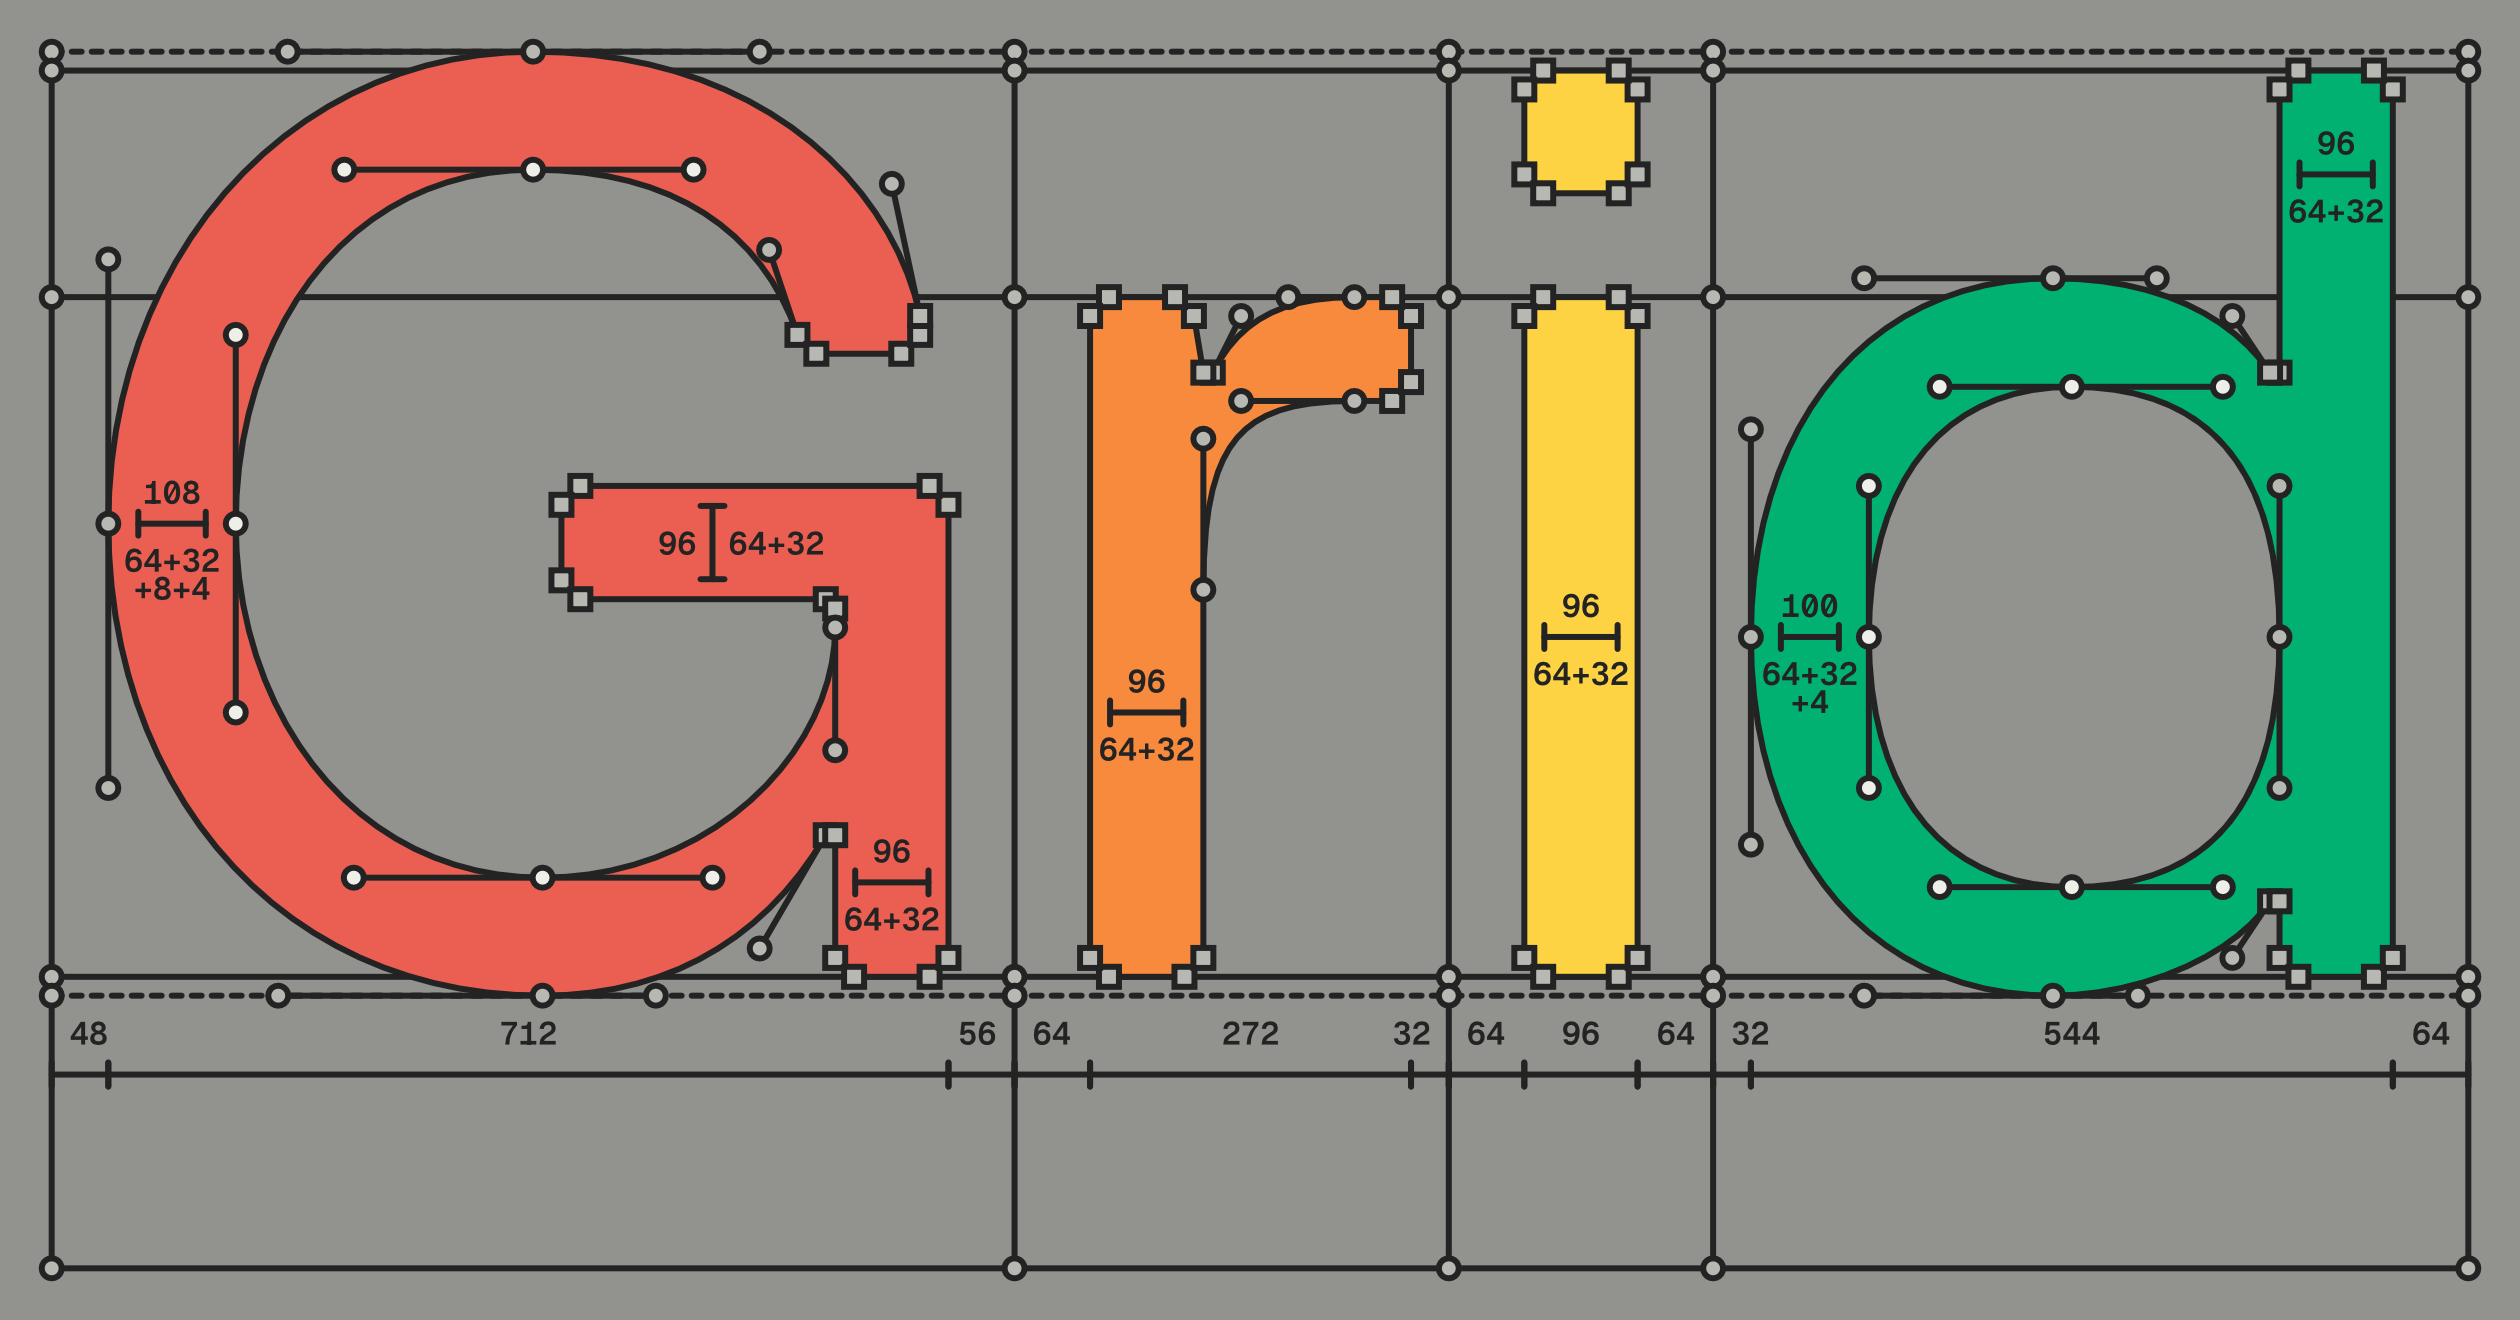
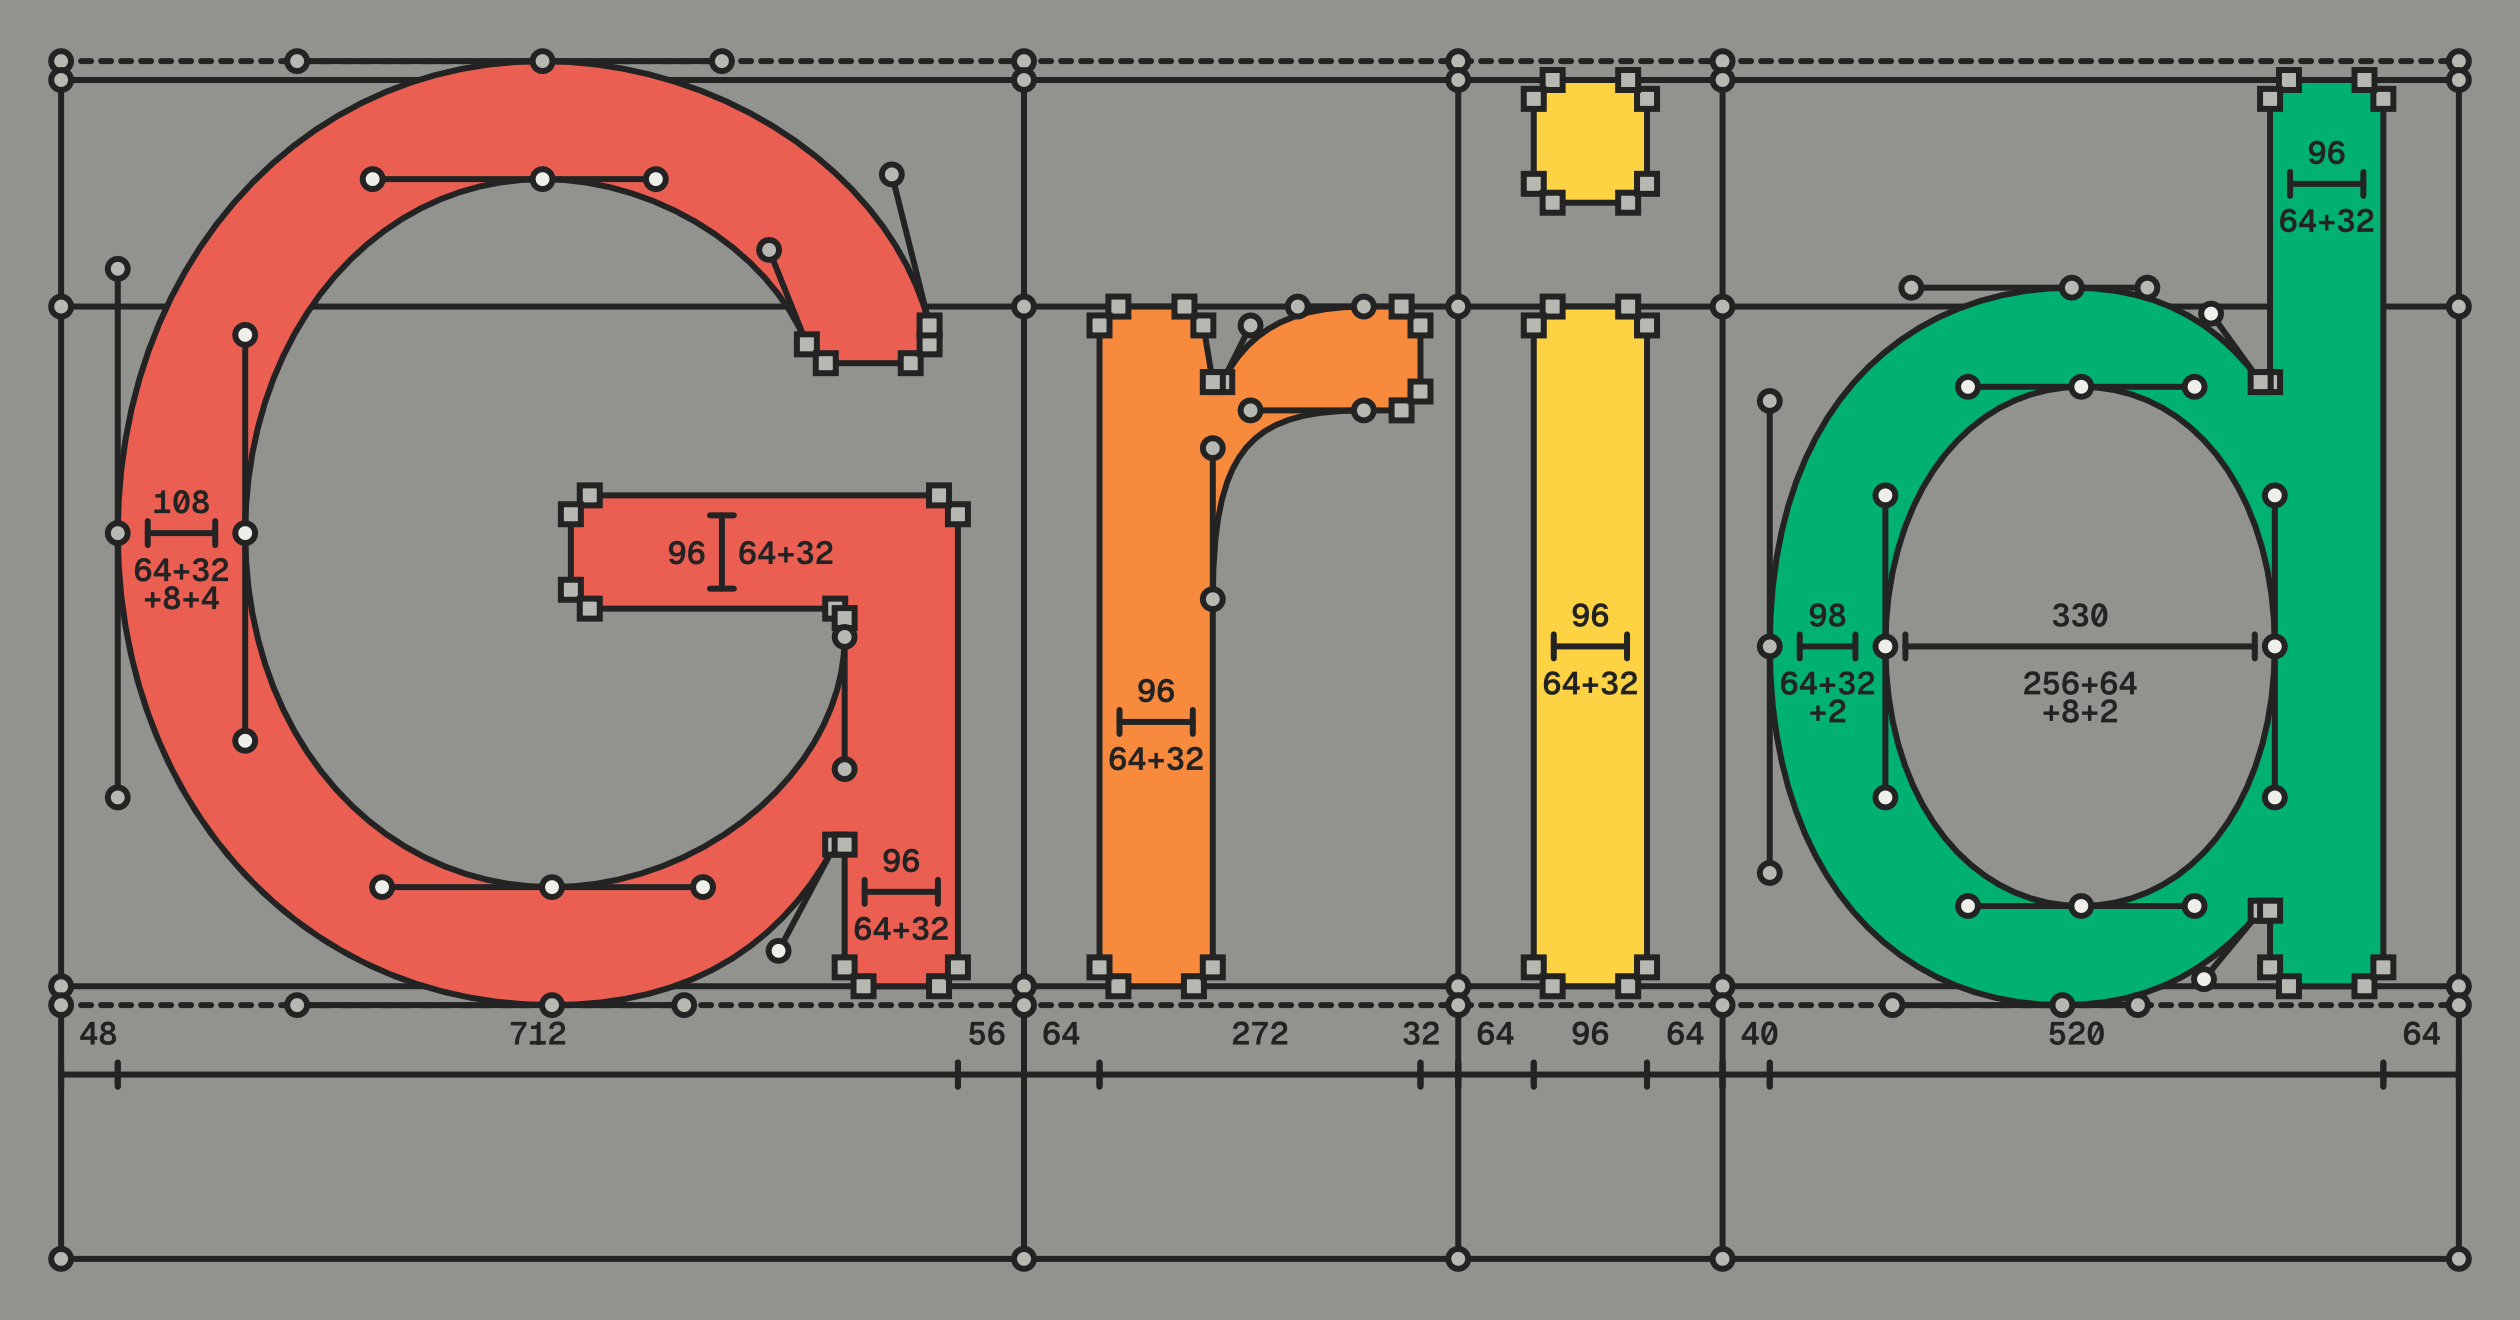
OG card: resolve glyph measurements from outlines at render time, add d counter dim

Changed region(s): [[0.0, 0.0311, 0.9905, 0.9629]]

diff --git a/scripts/virtua-grotesk/src/bin/og.rs b/scripts/virtua-grotesk/src/bin/og.rs
@@ -21,19 +21,50 @@ const GLYPHS: &[&str] = &["G", "r", "i", "d"];
 const TITLE: &str = "Virtua Grotesk: Grid Systems as Datasets";
 
 #[derive(Clone, Copy)]
+enum Axis {
+    H,
+    V,
+}
+
+/// A measurement declared against the outline, not against coordinates.
+/// `at` is the fixed line (a y for H, an x for V, in font units) and `span`
+/// picks two indices from the sorted crossing list of that line with the
+/// glyph outline. Endpoints and the printed value are resolved at render
+/// time, so redrawn glyphs re-measure themselves.
+#[derive(Clone, Copy)]
 struct GlyphMeasurement {
     glyph: usize,
-    x0: f64,
-    y0: f64,
-    x1: f64,
-    y1: f64,
-    value: i64,
+    axis: Axis,
+    at: f64,
+    span: (usize, usize),
     offset: f64,
     end_inset: f64,
     label_dx: f64,
     label_dy: f64,
     sum_dx: f64,
     sum_dy: f64,
+}
+
+/// The resolved geometry glyph_measurement() draws.
+struct ResolvedMeasurement {
+    x0: f64,
+    y0: f64,
+    x1: f64,
+    y1: f64,
+    value: i64,
+}
+
+fn resolve_measurement(outline: &Outline, m: &GlyphMeasurement) -> Option<ResolvedMeasurement> {
+    let crossings = match m.axis {
+        Axis::H => h_crossings(&outline.path, m.at),
+        Axis::V => v_crossings(&outline.path, m.at),
+    };
+    let (a, b) = (crossings.get(m.span.0)?, crossings.get(m.span.1)?);
+    let value = (b - a).round() as i64;
+    Some(match m.axis {
+        Axis::H => ResolvedMeasurement { x0: *a, y0: m.at, x1: *b, y1: m.at, value },
+        Axis::V => ResolvedMeasurement { x0: m.at, y0: *a, x1: m.at, y1: *b, value },
+    })
 }
 
 const POINT_MEASUREMENT_END_INSET: f64 = 30.0;
@@ -45,14 +76,13 @@ const VERTICAL_LABEL_BASELINE_OFFSET: f64 = -12.0;
 
 // EDIT HERE: individually placed glyph measurements in source-font units.
 // Each entry can move independently without changing any glyph geometry.
-const GLYPH_MEASUREMENTS: [GlyphMeasurement; 7] = [
+const GLYPH_MEASUREMENTS: [GlyphMeasurement; 8] = [
+    // G left stroke at the bowl's widest.
     GlyphMeasurement {
         glyph: 0,
-        x0: 48.0,
-        y0: 384.0,
-        x1: 156.0,
-        y1: 384.0,
-        value: 108,
+        axis: Axis::H,
+        at: 384.0,
+        span: (0, 1),
         offset: 0.0,
         end_inset: POINT_MEASUREMENT_END_INSET,
         label_dx: 0.0,
@@ -60,13 +90,12 @@ const GLYPH_MEASUREMENTS: [GlyphMeasurement; 7] = [
         sum_dx: 0.0,
         sum_dy: 0.0,
     },
+    // G bar thickness, measured vertically inside the bar.
     GlyphMeasurement {
         glyph: 0,
-        x0: 560.0,
-        y0: 320.0,
-        x1: 560.0,
-        y1: 416.0,
-        value: 96,
+        axis: Axis::V,
+        at: 560.0,
+        span: (2, 3),
         offset: 0.0,
         end_inset: EDGE_MEASUREMENT_END_INSET,
         label_dx: 0.0,
@@ -74,13 +103,12 @@ const GLYPH_MEASUREMENTS: [GlyphMeasurement; 7] = [
         sum_dx: 0.0,
         sum_dy: 0.0,
     },
+    // G lower-right stem.
     GlyphMeasurement {
         glyph: 0,
-        x0: 664.0,
-        y0: 80.0,
-        x1: 760.0,
-        y1: 80.0,
-        value: 96,
+        axis: Axis::H,
+        at: 80.0,
+        span: (2, 3),
         offset: 0.0,
         end_inset: EDGE_MEASUREMENT_END_INSET,
         label_dx: 0.0,
@@ -88,13 +116,12 @@ const GLYPH_MEASUREMENTS: [GlyphMeasurement; 7] = [
         sum_dx: 0.0,
         sum_dy: 0.0,
     },
+    // r stem.
     GlyphMeasurement {
         glyph: 1,
-        x0: 64.0,
-        y0: 224.0,
-        x1: 160.0,
-        y1: 224.0,
-        value: 96,
+        axis: Axis::H,
+        at: 224.0,
+        span: (0, 1),
         offset: 0.0,
         end_inset: EDGE_MEASUREMENT_END_INSET,
         label_dx: 0.0,
@@ -102,13 +129,12 @@ const GLYPH_MEASUREMENTS: [GlyphMeasurement; 7] = [
         sum_dx: 0.0,
         sum_dy: 0.0,
     },
+    // i stem.
     GlyphMeasurement {
         glyph: 2,
-        x0: 64.0,
-        y0: 288.0,
-        x1: 160.0,
-        y1: 288.0,
-        value: 96,
+        axis: Axis::H,
+        at: 288.0,
+        span: (0, 1),
         offset: 0.0,
         end_inset: EDGE_MEASUREMENT_END_INSET,
         label_dx: 0.0,
@@ -116,13 +142,12 @@ const GLYPH_MEASUREMENTS: [GlyphMeasurement; 7] = [
         sum_dx: 0.0,
         sum_dy: 0.0,
     },
+    // d bowl stroke at mid x-height.
     GlyphMeasurement {
         glyph: 3,
-        x0: 32.0,
-        y0: 288.0,
-        x1: 132.0,
-        y1: 288.0,
-        value: 100,
+        axis: Axis::H,
+        at: 288.0,
+        span: (0, 1),
         offset: 0.0,
         end_inset: POINT_MEASUREMENT_END_INSET,
         label_dx: 0.0,
@@ -130,13 +155,25 @@ const GLYPH_MEASUREMENTS: [GlyphMeasurement; 7] = [
         sum_dx: 0.0,
         sum_dy: 0.0,
     },
+    // d counter width at mid x-height.
     GlyphMeasurement {
         glyph: 3,
-        x0: 480.0,
-        y0: 680.0,
-        x1: 576.0,
-        y1: 680.0,
-        value: 96,
+        axis: Axis::H,
+        at: 288.0,
+        span: (1, 2),
+        offset: 0.0,
+        end_inset: EDGE_MEASUREMENT_END_INSET,
+        label_dx: 0.0,
+        label_dy: 0.0,
+        sum_dx: 0.0,
+        sum_dy: 0.0,
+    },
+    // d stem in the ascender, above the bowl.
+    GlyphMeasurement {
+        glyph: 3,
+        axis: Axis::H,
+        at: 680.0,
+        span: (0, 1),
         offset: 0.0,
         end_inset: EDGE_MEASUREMENT_END_INSET,
         label_dx: 0.0,
@@ -209,9 +246,15 @@ fn measurement_span(
     );
 }
 
-fn glyph_measurement(sheet: &mut Sheet, f: &Frame, origin: f64, m: GlyphMeasurement) {
-    let p0 = (f.x(origin + m.x0), f.y(m.y0));
-    let p1 = (f.x(origin + m.x1), f.y(m.y1));
+fn glyph_measurement(
+    sheet: &mut Sheet,
+    f: &Frame,
+    origin: f64,
+    m: GlyphMeasurement,
+    r: ResolvedMeasurement,
+) {
+    let p0 = (f.x(origin + r.x0), f.y(r.y0));
+    let p1 = (f.x(origin + r.x1), f.y(r.y1));
     let dx = p1.0 - p0.0;
     let dy = p1.1 - p0.1;
     let length = (dx * dx + dy * dy).sqrt();
@@ -238,7 +281,7 @@ fn glyph_measurement(sheet: &mut Sheet, f: &Frame, origin: f64, m: GlyphMeasurem
         );
     }
     let midpoint = ((q0.0 + q1.0) / 2.0, (q0.1 + q1.1) / 2.0);
-    let decomposition = p2sum(m.value);
+    let decomposition = p2sum(r.value);
     let parts: Vec<&str> = decomposition.split('+').collect();
     let sum_lines = if parts.len() > 2 {
         vec![parts[..2].join("+"), format!("+{}", parts[2..].join("+"))]
@@ -267,7 +310,7 @@ fn glyph_measurement(sheet: &mut Sheet, f: &Frame, origin: f64, m: GlyphMeasurem
         )
     };
     sheet.label_weighted(
-        &m.value.to_string(),
+        &r.value.to_string(),
         value_x,
         value_y,
         MEASUREMENT_TEXT_SIZE,
@@ -519,7 +562,19 @@ fn main() {
     }
 
     for measurement in GLYPH_MEASUREMENTS {
-        glyph_measurement(&mut sheet, &f, bounds[measurement.glyph], measurement);
+        match resolve_measurement(&outlines[measurement.glyph], &measurement) {
+            Some(resolved) => glyph_measurement(
+                &mut sheet,
+                &f,
+                bounds[measurement.glyph],
+                measurement,
+                resolved,
+            ),
+            None => eprintln!(
+                "warning: measurement on glyph {} at {} has no crossing span {:?}; skipped",
+                GLYPHS[measurement.glyph], measurement.at, measurement.span
+            ),
+        }
     }
 
     // Locally placed capped dimensions. The four row offsets above are

diff --git a/scripts/virtua-grotesk/src/lib.rs b/scripts/virtua-grotesk/src/lib.rs
@@ -558,6 +558,50 @@ impl Sheet<'_> {
     }
 }
 
+// --- outline measurement -------------------------------------------------------------
+
+/// X positions where the horizontal line at `y` crosses the outline, sorted
+/// left to right. Duplicate hits at segment joins are merged. Figures use
+/// these so measurement endpoints and values follow the current sources
+/// instead of hardcoding coordinates that go stale when a glyph is redrawn.
+pub fn h_crossings(path: &BezPath, y: f64) -> Vec<f64> {
+    use kurbo::{Line, Point, Shape};
+    let bbox = path.bounding_box();
+    let line = Line::new(Point::new(bbox.x0 - 16.0, y), Point::new(bbox.x1 + 16.0, y));
+    let mut xs: Vec<f64> = path
+        .segments()
+        .flat_map(|seg| {
+            seg.intersect_line(line)
+                .into_iter()
+                .map(|hit| line.p0.x + hit.line_t * (line.p1.x - line.p0.x))
+                .collect::<Vec<_>>()
+        })
+        .collect();
+    xs.sort_by(|a, b| a.partial_cmp(b).unwrap());
+    xs.dedup_by(|a, b| (*a - *b).abs() < 0.5);
+    xs
+}
+
+/// Y positions where the vertical line at `x` crosses the outline, sorted
+/// bottom to top. See [`h_crossings`].
+pub fn v_crossings(path: &BezPath, x: f64) -> Vec<f64> {
+    use kurbo::{Line, Point, Shape};
+    let bbox = path.bounding_box();
+    let line = Line::new(Point::new(x, bbox.y0 - 16.0), Point::new(x, bbox.y1 + 16.0));
+    let mut ys: Vec<f64> = path
+        .segments()
+        .flat_map(|seg| {
+            seg.intersect_line(line)
+                .into_iter()
+                .map(|hit| line.p0.y + hit.line_t * (line.p1.y - line.p0.y))
+                .collect::<Vec<_>>()
+        })
+        .collect();
+    ys.sort_by(|a, b| a.partial_cmp(b).unwrap());
+    ys.dedup_by(|a, b| (*a - *b).abs() < 0.5);
+    ys
+}
+
 // --- abstract-figure primitives -----------------------------------------------------
 
 /// The stroked, filled rectangle with a centered mono numeral that the
